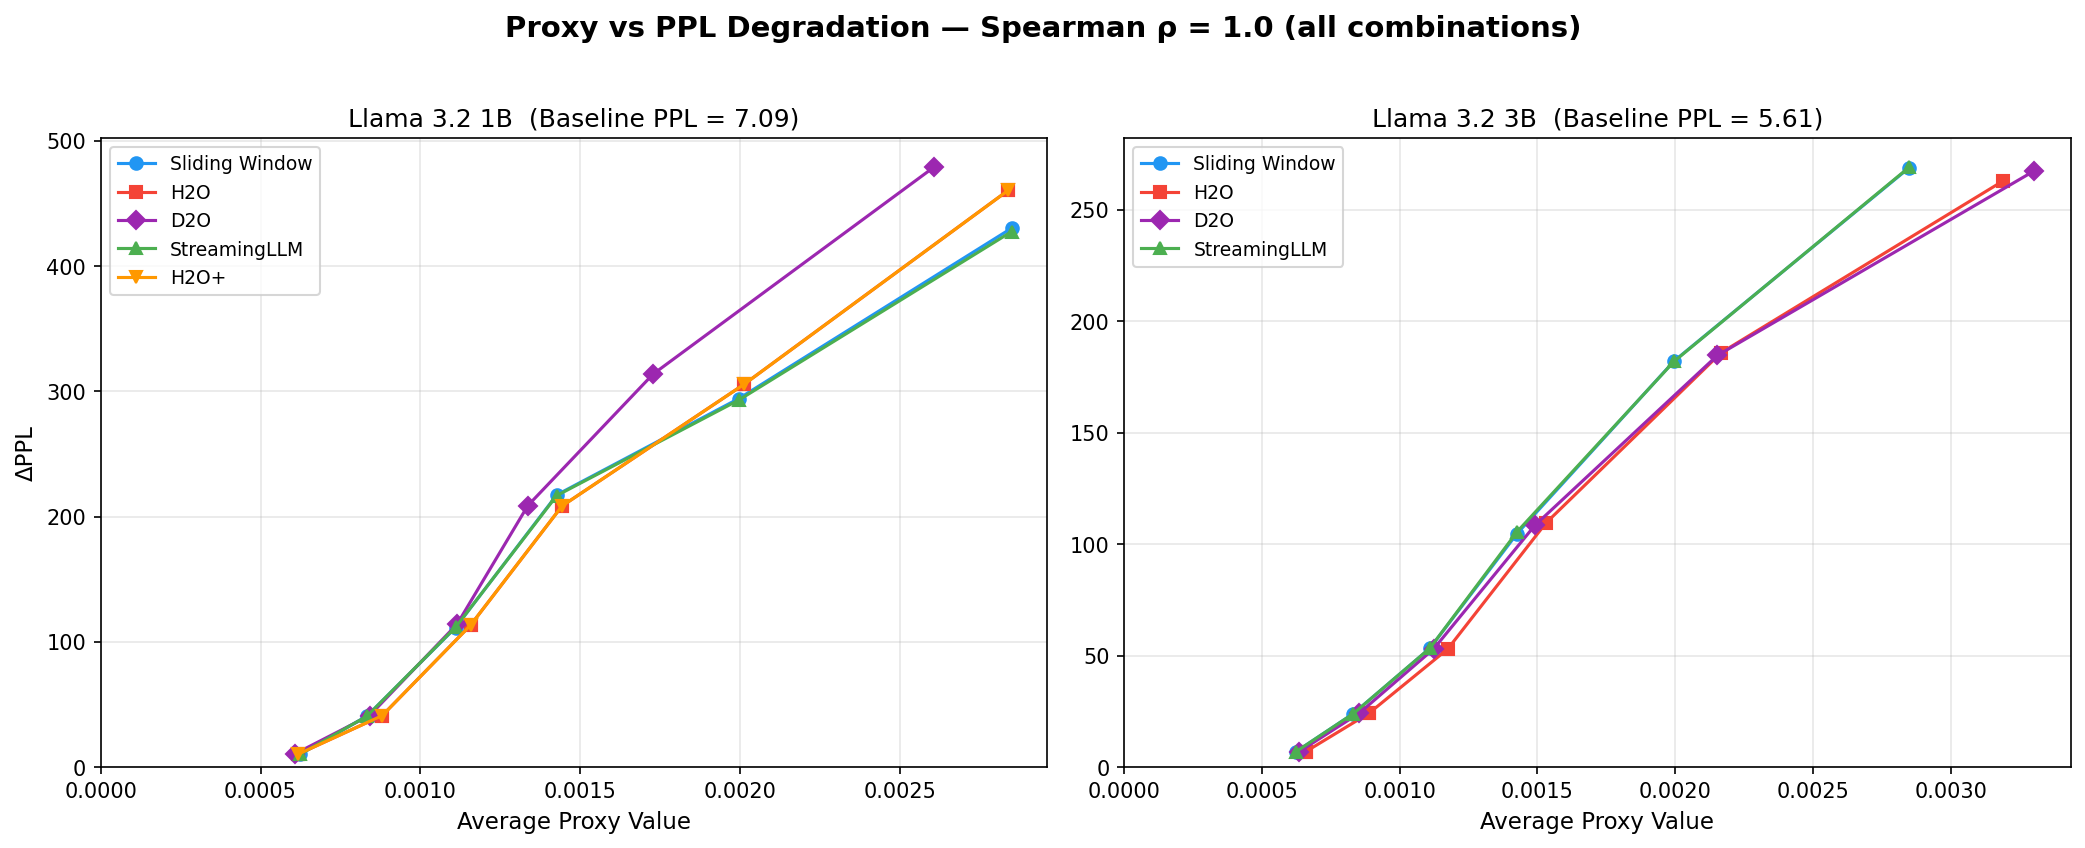
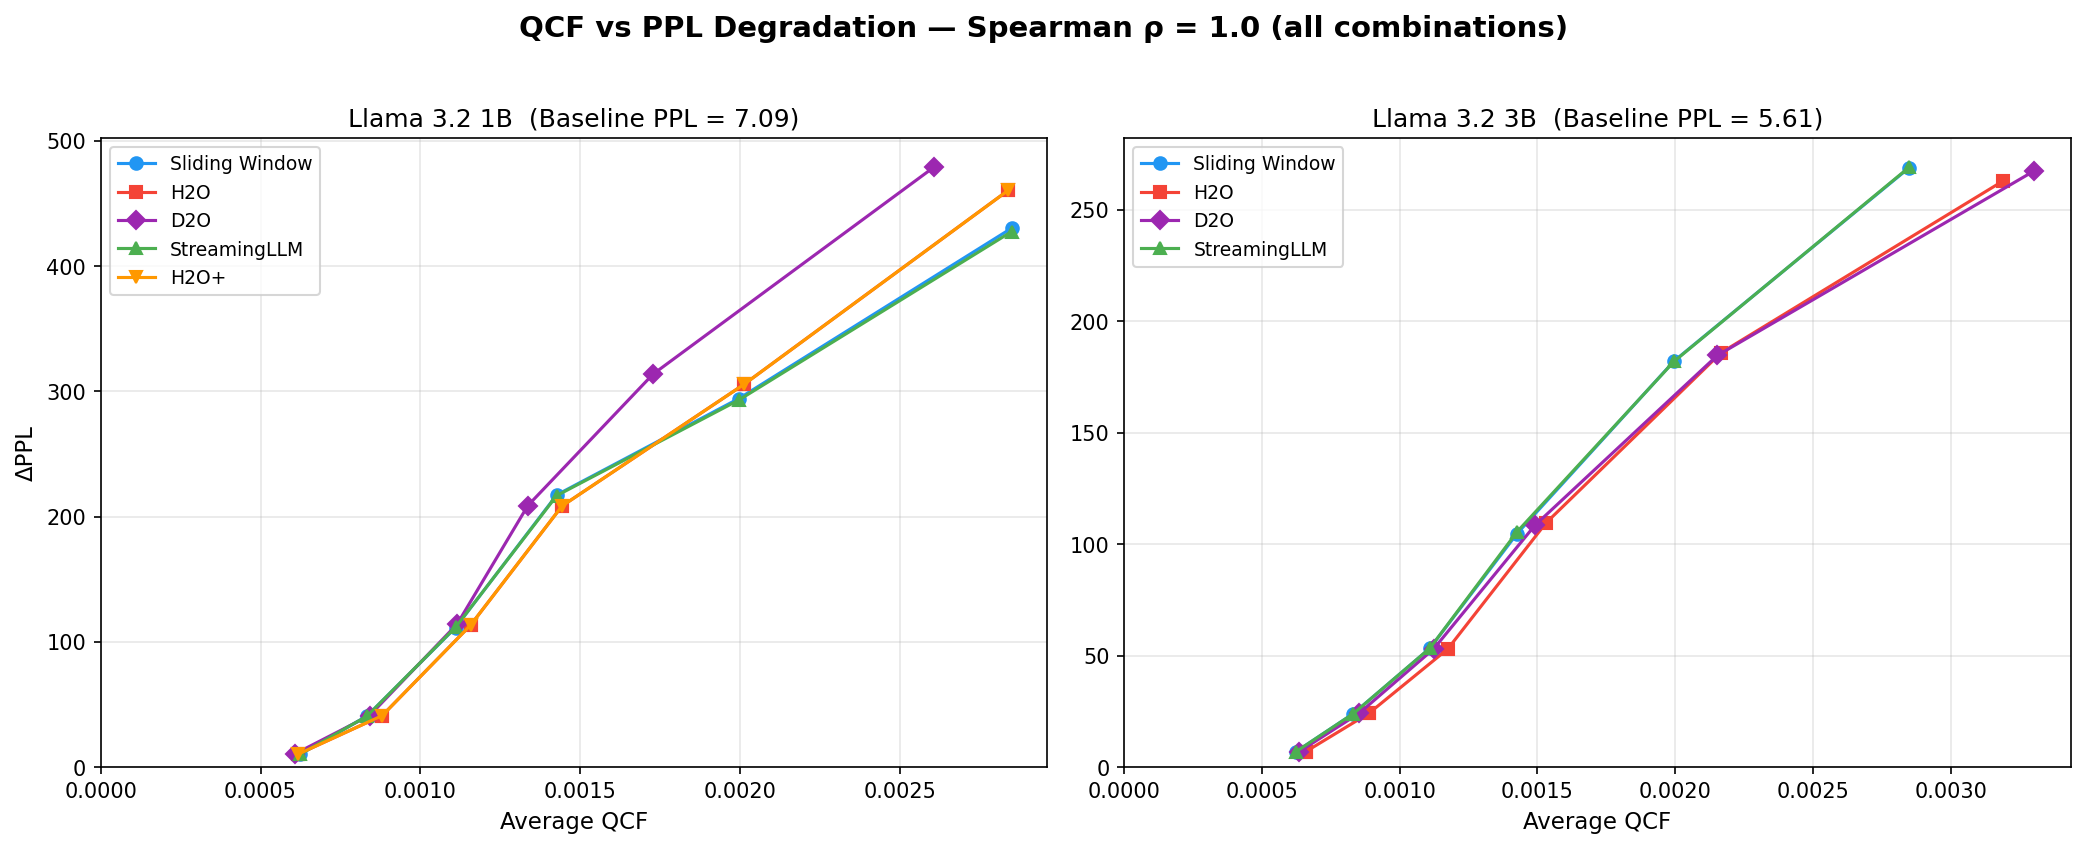
style(plots): rename Proxy to QCF in all graph labels and filenames

Changed region(s): [[0.2494, 0.0, 0.7482, 0.0613], [0.2182, 0.9505, 0.3429, 0.9811], [0.717, 0.9505, 0.8106, 0.9811]]

diff --git a/experiments/proxy_validation/plot.py b/experiments/proxy_validation/plot.py
@@ -79,9 +79,9 @@ def plot_proxy_vs_ppl(model_name, baseline_ppl, policies, suffix=""):
                 label=f"{POLICY_LABELS.get(policy, policy)} (ρ=1.0)",
                 linewidth=1.5, markersize=7, zorder=3)
 
-    ax.set_xlabel("Average Proxy Value (per eviction)", fontsize=12)
+    ax.set_xlabel("Average QCF (per eviction)", fontsize=12)
     ax.set_ylabel("ΔPPL (PPL increase from baseline)", fontsize=12)
-    ax.set_title(f"{model_name}  —  Proxy vs PPL Degradation\n(Baseline PPL = {baseline_ppl:.2f})",
+    ax.set_title(f"{model_name}  —  QCF vs PPL Degradation\n(Baseline PPL = {baseline_ppl:.2f})",
                  fontsize=13)
     ax.legend(fontsize=10, loc="upper left")
     ax.grid(True, alpha=0.3)
@@ -89,7 +89,7 @@ def plot_proxy_vs_ppl(model_name, baseline_ppl, policies, suffix=""):
     ax.set_ylim(bottom=0)
 
     plt.tight_layout()
-    path = f"{OUTDIR}/proxy_vs_ppl_{suffix}.png"
+    path = f"{OUTDIR}/qcf_vs_ppl_{suffix}.png"
     fig.savefig(path, dpi=150)
     plt.close(fig)
     print(f"  Saved: {path}")
@@ -143,7 +143,7 @@ def plot_combined_comparison():
                     label=POLICY_LABELS.get(policy, policy),
                     linewidth=1.5, markersize=6, zorder=3)
 
-        ax.set_xlabel("Average Proxy Value", fontsize=11)
+        ax.set_xlabel("Average QCF", fontsize=11)
         ax.set_ylabel("ΔPPL" if idx == 0 else "", fontsize=11)
         ax.set_title(f"{label}  (Baseline PPL = {baseline_ppl:.2f})", fontsize=12)
         ax.legend(fontsize=9, loc="upper left")
@@ -151,7 +151,7 @@ def plot_combined_comparison():
         ax.set_xlim(left=0)
         ax.set_ylim(bottom=0)
 
-    fig.suptitle("Proxy vs PPL Degradation — Spearman ρ = 1.0 (all combinations)",
+    fig.suptitle("QCF vs PPL Degradation — Spearman ρ = 1.0 (all combinations)",
                  fontsize=14, fontweight="bold", y=1.02)
     plt.tight_layout()
     path = f"{OUTDIR}/comparison_1b_3b.png"
@@ -160,7 +160,7 @@ def plot_combined_comparison():
     print(f"  Saved: {path}")
 
 
-def plot_total_proxy_vs_ppl():
+def plot_total_qcf_vs_ppl():
     """Total proxy (cumulative) vs ΔPPL — shows stronger relationship."""
     fig, axes = plt.subplots(1, 2, figsize=(14, 5.5))
 
@@ -180,7 +180,7 @@ def plot_total_proxy_vs_ppl():
                     label=POLICY_LABELS.get(policy, policy),
                     linewidth=1.5, markersize=6, zorder=3)
 
-        ax.set_xlabel("Cumulative Proxy (sum over all evictions)", fontsize=11)
+        ax.set_xlabel("Cumulative QCF (sum over all evictions)", fontsize=11)
         ax.set_ylabel("ΔPPL" if idx == 0 else "", fontsize=11)
         ax.set_title(f"{label}  (Baseline PPL = {baseline_ppl:.2f})", fontsize=12)
         ax.legend(fontsize=9, loc="upper left")
@@ -188,10 +188,10 @@ def plot_total_proxy_vs_ppl():
         ax.set_xlim(left=0)
         ax.set_ylim(bottom=0)
 
-    fig.suptitle("Cumulative Proxy vs PPL Degradation — ρ = 1.0",
+    fig.suptitle("Cumulative QCF vs PPL Degradation — ρ = 1.0",
                  fontsize=14, fontweight="bold", y=1.02)
     plt.tight_layout()
-    path = f"{OUTDIR}/total_proxy_vs_ppl.png"
+    path = f"{OUTDIR}/total_qcf_vs_ppl.png"
     fig.savefig(path, dpi=150, bbox_inches='tight')
     plt.close(fig)
     print(f"  Saved: {path}")
@@ -212,7 +212,7 @@ def main():
 
     print("\n  Combined:")
     plot_combined_comparison()
-    plot_total_proxy_vs_ppl()
+    plot_total_qcf_vs_ppl()
     print("\nDone.")
 
 
